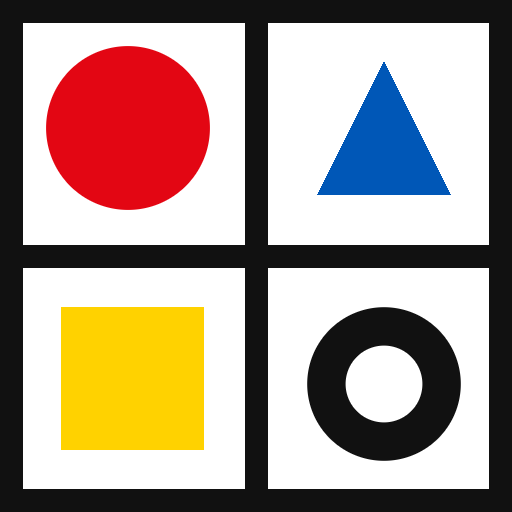
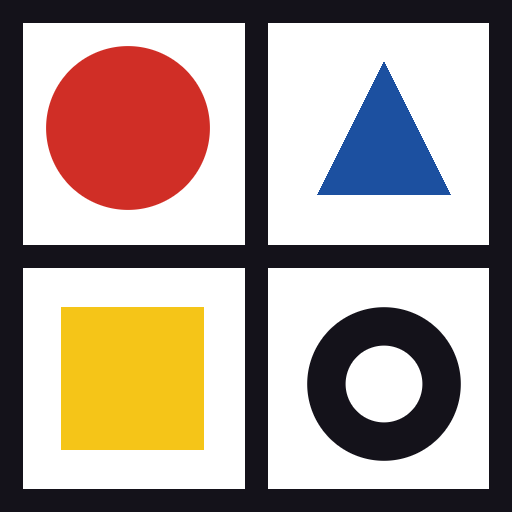
style: alinear la plataforma a la paleta exacta DesignQuizz
Ajusta los tokens de color de la app a la paleta del brief Bauhaus/Suizo:
rojo #D02E26, azul #1C50A0, amarillo #F5C518, tinta #14121A (y sus
equivalentes en modo oscuro). Regenera los iconos PWA y el favicon con
esos primarios y sube la versión del service worker para refrescar caché.

Changed region(s): [[0.0938, 0.0938, 0.4062, 0.4062], [0.625, 0.125, 0.875, 0.4062]]

diff --git a/assets/app.css b/assets/app.css
@@ -13,18 +13,18 @@
 }
 
 :root {
-  /* Los tres primarios — señal, nunca decoración */
-  --rojo: #e30613;
-  --azul: #0057b7;
-  --amarillo: #ffd200;
+  /* Los tres primarios — señal, nunca decoración (paleta DesignQuizz) */
+  --rojo: #d02e26;
+  --azul: #1c50a0;
+  --amarillo: #f5c518;
 
-  --negro: #111111;
+  --negro: #14121a;
   --blanco: #ffffff;
   --papel: #ffffff;
-  --tinta: #111111;
-  --gris: #6b6b6b;
-  --gris-claro: #ededed;
-  --linea: #111111;
+  --tinta: #14121a;
+  --gris: #6a6870;
+  --gris-claro: #e7e6ea;
+  --linea: #14121a;
 
   --unidad: 8px; /* módulo de la retícula */
   --borde: 2px; /* grosor de línea estándar */
@@ -40,24 +40,24 @@
    Objetividad ante todo — sin degradados. */
 @media (prefers-color-scheme: dark) {
   :root:not([data-theme="light"]) {
-    --papel: #0d0d0d;
-    --tinta: #f4f4f4;
-    --negro: #f4f4f4;
-    --blanco: #0d0d0d;
-    --gris: #9a9a9a;
-    --gris-claro: #1e1e1e;
-    --linea: #f4f4f4;
+    --papel: #100e15;
+    --tinta: #f4f2f7;
+    --negro: #f4f2f7;
+    --blanco: #100e15;
+    --gris: #9a97a3;
+    --gris-claro: #201d28;
+    --linea: #f4f2f7;
     color-scheme: dark;
   }
 }
 :root[data-theme="dark"] {
-  --papel: #0d0d0d;
-  --tinta: #f4f4f4;
-  --negro: #f4f4f4;
-  --blanco: #0d0d0d;
-  --gris: #9a9a9a;
-  --gris-claro: #1e1e1e;
-  --linea: #f4f4f4;
+  --papel: #100e15;
+  --tinta: #f4f2f7;
+  --negro: #f4f2f7;
+  --blanco: #100e15;
+  --gris: #9a97a3;
+  --gris-claro: #201d28;
+  --linea: #f4f2f7;
   color-scheme: dark;
 }
 

diff --git a/index.html b/index.html
@@ -9,7 +9,7 @@
       content="Plataforma en castellano para diseñar y jugar cuestionarios interactivos tipo concurso. El docente carga preguntas desde Word, Markdown o CSV y comparte un código QR. PWA instalable y offline."
     />
     <meta name="theme-color" content="#ffffff" media="(prefers-color-scheme: light)" />
-    <meta name="theme-color" content="#0d0d0d" media="(prefers-color-scheme: dark)" />
+    <meta name="theme-color" content="#100e15" media="(prefers-color-scheme: dark)" />
     <meta name="mobile-web-app-capable" content="yes" />
     <meta name="apple-mobile-web-app-capable" content="yes" />
     <meta name="apple-mobile-web-app-title" content="QUIZ" />

diff --git a/sw.js b/sw.js
@@ -3,7 +3,7 @@
    Estrategia: cache-first para los recursos propios; para navegaciones,
    devuelve index.html desde caché si no hay red. */
 
-var VERSION = "quiz-v1.0.0";
+var VERSION = "quiz-v1.1.0";
 var SHELL = [
   "./",
   "./index.html",
